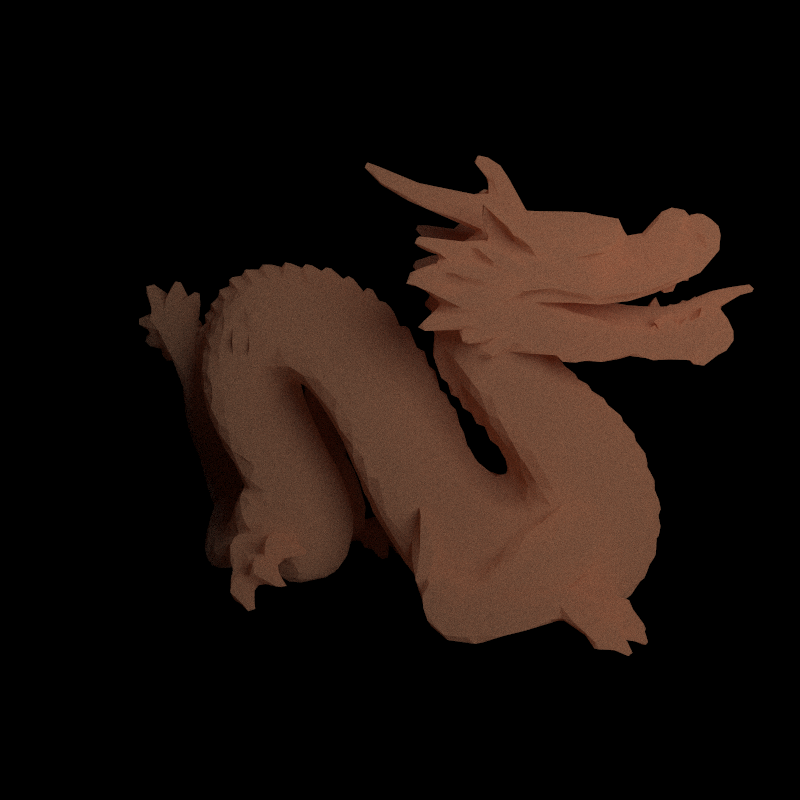
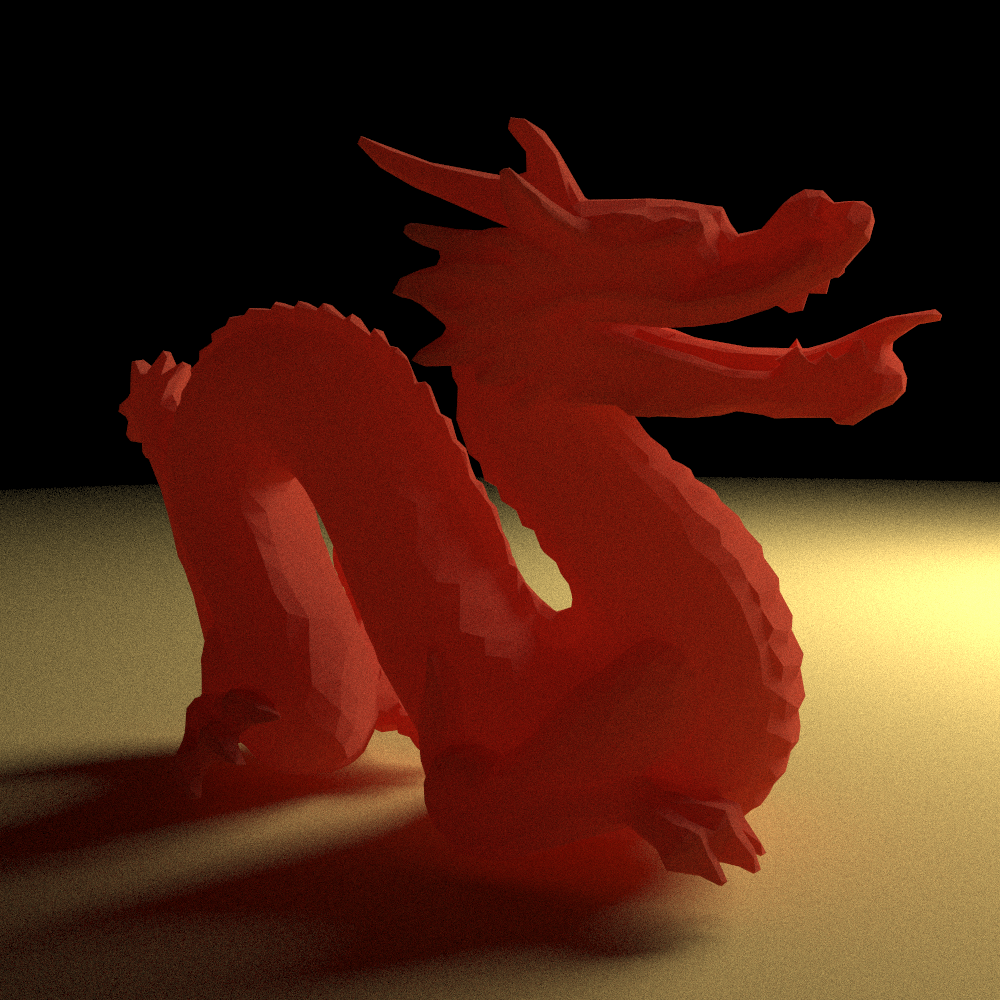
better configuration for scenes

diff --git a/src/blender.rs b/src/blender.rs
@@ -5,7 +5,9 @@ use crate::{
     bbox::AABBox,
     hit::{HitRecord, Hittable, Interval, Sphere},
     material::Material,
-    Color, Ray, DEBUG_SAMPLES_PER_PIXEL, IMAGE_WIDTH, MAX_BOUNCES, P3, V3,
+    p,
+    ray::Camera,
+    v, Ray, DEBUG_SAMPLES_PER_PIXEL, IMAGE_WIDTH, MAX_BOUNCES, P3, V3,
 };
 use serde::Deserialize;
 use std::fs;
@@ -18,25 +20,73 @@ macro_rules! pt {
     }};
 }
 
+#[derive(Debug, Clone, Copy, Deserialize)]
+#[serde(rename_all = "lowercase", tag = "kind")]
+pub enum MatSpec {
+    Solid { color: [f64; 3] },
+    Metal { color: [f64; 3], fuzz: f64 },
+    Glass { ref_index: f64 },
+    Isotropic { color: [f64; 3] },
+    Light { color: [f64; 3] },
+}
+
+impl From<MatSpec> for Material {
+    fn from(m: MatSpec) -> Self {
+        match m {
+            MatSpec::Solid { color } => Material::solid_color(color.into()),
+            MatSpec::Metal { color, fuzz } => Material::metal(color.into(), fuzz),
+            MatSpec::Glass { ref_index } => Material::dielectric(ref_index),
+            MatSpec::Isotropic { color } => Material::isotropic(color.into()),
+            MatSpec::Light { color } => Material::diffuse_light(color.into()),
+        }
+    }
+}
+
+#[derive(Debug, Clone, Deserialize)]
+pub struct Mesh {
+    pub path: String,
+    pub material: MatSpec,
+}
+
+#[derive(Debug, Clone, Copy, Deserialize)]
+#[serde(rename_all = "lowercase", tag = "kind")]
+pub enum ObjSpec {
+    Sphere {
+        center: [f64; 3],
+        r: f64,
+        material: MatSpec,
+    },
+}
+
+impl From<ObjSpec> for Hittable {
+    fn from(obj: ObjSpec) -> Self {
+        match obj {
+            ObjSpec::Sphere {
+                center,
+                r,
+                material,
+            } => Sphere::new(center.into(), r, material.into()).into(),
+        }
+    }
+}
+
 #[derive(Debug, Clone, Deserialize)]
 pub struct Scene {
+    // sim
     pub samples_per_pixel: u16,
     pub max_bounces: u8,
-    pub image_width: u16,
-    pub aspect_ratio: f64,
     // camera
     pub fov: f64,
+    pub image_width: u16,
+    pub aspect_ratio: f64,
     pub from: [f64; 3],
     pub at: [f64; 3],
-    // mesh
-    pub mesh: String,
-    pub point_radius: f64,
+    // hittables
     pub as_points: bool,
-    pub color: [f64; 3],
+    pub point_radius: f64,
+    pub meshes: Vec<Mesh>,
+    pub objects: Vec<ObjSpec>,
     // light
-    pub light_pos: [f64; 3],
-    pub light_str: f64,
-    pub light_r: f64,
     pub bg: [f64; 3],
 }
 
@@ -48,15 +98,23 @@ impl Default for Scene {
             image_width: IMAGE_WIDTH,
             aspect_ratio: 1.0,
             fov: 40.0,
-            from: [1.0, 0.0, -0.5],
+            from: [1.2, 0.2, -0.85],
             at: [0.0, 0.0, 0.0],
-            mesh: "assets/Dragon_8K.obj".to_string(),
-            point_radius: 0.001,
             as_points: false,
-            color: [0.53, 0.53, 0.53],
-            light_pos: [1.0, 1.0, 1.0],
-            light_str: 25.0,
-            light_r: 1.0,
+            point_radius: 0.001,
+            meshes: vec![Mesh {
+                path: "assets/Dragon_8K.obj".to_string(),
+                material: MatSpec::Solid {
+                    color: [0.53, 0.53, 0.53],
+                },
+            }],
+            objects: vec![ObjSpec::Sphere {
+                center: [1.0, 1.0, 1.0],
+                r: 1.0,
+                material: MatSpec::Light {
+                    color: [25.0, 25.0, 25.0],
+                },
+            }],
             bg: [0.7, 0.8, 1.0],
         }
     }
@@ -66,39 +124,66 @@ impl Scene {
     pub fn try_from_file() -> Option<Self> {
         let s = fs::read_to_string("scene.json").ok()?;
 
-        serde_json::from_str(&s).ok()
+        Some(serde_json::from_str(&s).unwrap())
     }
 
-    pub fn load_mesh(&self) -> Vec<Hittable> {
-        let (models, _) = load_obj(&self.mesh, &GPU_LOAD_OPTIONS).unwrap();
+    pub fn load_scene(&self) -> (Vec<Hittable>, Camera) {
         let mut hittables = Vec::new();
-        let mat = Material::solid_color(Color::new(self.color[0], self.color[1], self.color[2]));
 
-        for m in models {
-            let ps = &m.mesh.positions;
-            let ix = &m.mesh.indices;
+        for mesh in self.meshes.iter() {
+            let (models, _) = load_obj(&mesh.path, &GPU_LOAD_OPTIONS).unwrap();
+            let mat: Material = mesh.material.into();
 
-            for i in 0..ix.len() / 3 {
-                let a = pt!(ps, ix, i * 3);
-                let b = pt!(ps, ix, i * 3 + 1);
-                let c = pt!(ps, ix, i * 3 + 2);
+            for m in models {
+                let ps = &m.mesh.positions;
+                let ix = &m.mesh.indices;
 
-                if self.as_points {
-                    hittables.extend(
-                        [a, b, c]
-                            .into_iter()
-                            .map(|p| Hittable::from(Sphere::new(p, self.point_radius, mat))),
-                    );
-                } else {
-                    hittables.push(Triangle::new(a, b, c, mat).into());
+                for i in 0..ix.len() / 3 {
+                    let a = pt!(ps, ix, i * 3);
+                    let b = pt!(ps, ix, i * 3 + 1);
+                    let c = pt!(ps, ix, i * 3 + 2);
+
+                    if self.as_points {
+                        hittables.extend(
+                            [a, b, c]
+                                .into_iter()
+                                .map(|p| Hittable::from(Sphere::new(p, self.point_radius, mat))),
+                        );
+                    } else {
+                        hittables.push(Triangle::new(a, b, c, mat).into());
+                    }
                 }
-            }
 
-            eprintln!("n vertices  = {}", ix.len());
-            eprintln!("n hittables = {}", hittables.len());
+                eprintln!("n vertices  = {}", ix.len());
+                eprintln!("n hittables = {}", hittables.len());
+            }
         }
 
-        hittables
+        for obj in self.objects.iter() {
+            hittables.push((*obj).into());
+        }
+
+        let v_up = v!(0, 1, 0);
+        let defocus_angle = 0.0;
+        let focus_dist = 10.0;
+        let look_from = p!(self.from[0], self.from[1], self.from[2]);
+        let look_at = p!(self.at[0], self.at[1], self.at[2]);
+
+        let camera = Camera::new(
+            self.aspect_ratio,
+            self.image_width,
+            self.samples_per_pixel,
+            self.max_bounces,
+            v!(self.bg[0], self.bg[1], self.bg[2]),
+            self.fov,
+            look_from,
+            look_at,
+            v_up,
+            defocus_angle,
+            focus_dist,
+        );
+
+        (hittables, camera)
     }
 }
 

diff --git a/src/main.rs b/src/main.rs
@@ -25,12 +25,14 @@ pub const SAMPLES_PER_PIXEL: u16 = 4500; // number of random samples per pixel
 pub const DEBUG_SAMPLES_PER_PIXEL: u16 = 10; // number of random samples per pixel
 pub const MAX_BOUNCES: u8 = 50; // maximum number of ray bounces allowed
 
+#[macro_export]
 macro_rules! p {
     ($x:expr, $y:expr, $z:expr) => {
         P3::new($x as f64, $y as f64, $z as f64)
     };
 }
 
+#[macro_export]
 macro_rules! v {
     ($x:expr, $y:expr, $z:expr) => {
         V3::new($x as f64, $y as f64, $z as f64)
@@ -57,7 +59,10 @@ fn main() {
         "cornell-cuboids" => cornell_box_cuboids(),
         "glass-cornell-cuboids" => cornell_box_glass_cuboids(),
         "smoke-cornell-cuboids" => cornell_box_smoke_cuboids(),
-        _ => mesh(),
+        _ => {
+            let s = Scene::try_from_file().unwrap_or_default();
+            s.load_scene()
+        }
     };
 
     if debug_sampling {
@@ -66,6 +71,10 @@ fn main() {
 
     eprintln!("Computing bvh tree...");
     let bvh_tree = BvhNode::new_from_hittables(hittables);
+    eprintln!(
+        "BVH bounding box:\n  x={:?}\n  y={:?}\n  z={:?}",
+        bvh_tree.bbox.x, bvh_tree.bbox.y, bvh_tree.bbox.z
+    );
 
     eprintln!("Rendering...");
     camera.render_ppm(&mut stdout(), &bvh_tree);
@@ -526,43 +535,6 @@ pub fn cornell_box_glass_cuboids() -> (Vec<Hittable>, Camera) {
             .rotate(15.0)
             .translate(v!(25, 25, 25))
             .translate(v!(265, 0, 295)),
-    );
-
-    (hittables, camera)
-}
-
-pub fn mesh() -> (Vec<Hittable>, Camera) {
-    // Camera
-    let s = Scene::try_from_file().unwrap_or_default();
-    let v_up = v!(0, 1, 0);
-    let defocus_angle = 0.0;
-    let focus_dist = 10.0;
-
-    let camera = Camera::new(
-        s.aspect_ratio,
-        s.image_width,
-        s.samples_per_pixel,
-        s.max_bounces,
-        v!(s.bg[0], s.bg[1], s.bg[2]),
-        s.fov,
-        p!(s.from[0], s.from[1], s.from[2]),
-        p!(s.at[0], s.at[1], s.at[2]),
-        v_up,
-        defocus_angle,
-        focus_dist,
-    );
-
-    // Contents
-    let mut hittables = s.load_mesh();
-
-    let light = Material::diffuse_light(Color::grey(s.light_str));
-    hittables.push(
-        Sphere::new(
-            p!(s.light_pos[0], s.light_pos[1], s.light_pos[2]),
-            s.light_r,
-            light,
-        )
-        .into(),
     );
 
     (hittables, camera)

diff --git a/src/ray.rs b/src/ray.rs
@@ -6,7 +6,7 @@ use crate::{
 };
 use rand::random_range;
 use rayon::prelude::*;
-use std::{cmp::max, io::Write};
+use std::{cmp::max, io::Write, time::Instant};
 
 #[derive(Debug, Clone, Copy)]
 pub struct Camera {
@@ -96,6 +96,7 @@ impl Camera {
             panic!("unable to write ppm header: {e}");
         }
 
+        let start = Instant::now();
         let pixels: Vec<Color> = (0..self.image_height)
             .into_par_iter()
             .flat_map(move |j| {
@@ -118,6 +119,9 @@ impl Camera {
 
         let s: String = pixels.into_iter().map(|c| c.ppm_string()).collect();
         writeln!(w, "{s}").unwrap();
+
+        let render_time = Instant::now().duration_since(start);
+        eprintln!("\nRender time: {}s", render_time.as_secs());
     }
 
     /// Construct a camera ray originating from the defocus disk and directed at a randomly

diff --git a/src/bbox.rs b/src/bbox.rs
@@ -119,6 +119,14 @@ impl AABBox {
         self.min = wide::f64x4::new([self.x.min, self.y.min, self.z.min, 0.0]);
         self.max = wide::f64x4::new([self.x.max, self.y.max, self.z.max, 0.0]);
     }
+
+    pub const fn expand(&self, delta: f64) -> AABBox {
+        AABBox::new(
+            self.x.expand(delta),
+            self.y.expand(delta),
+            self.z.expand(delta),
+        )
+    }
 }
 
 impl Add<V3> for AABBox {

diff --git a/src/v3.rs b/src/v3.rs
@@ -99,6 +99,12 @@ impl V3 {
     }
 }
 
+impl From<[f64; 3]> for V3 {
+    fn from(v: [f64; 3]) -> Self {
+        V3::new(v[0], v[1], v[2])
+    }
+}
+
 impl Neg for V3 {
     type Output = V3;
 
